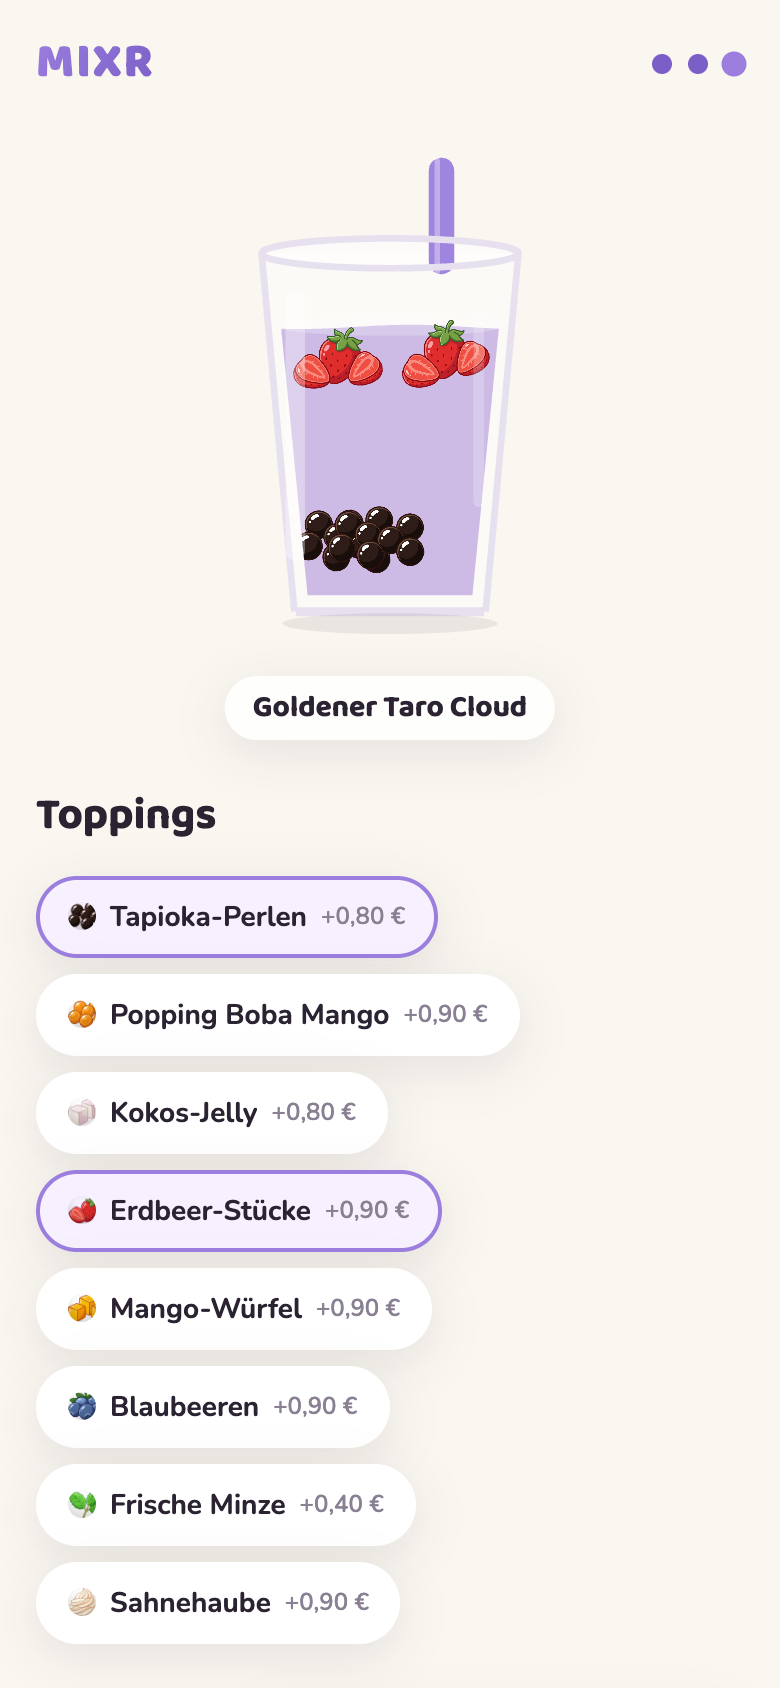
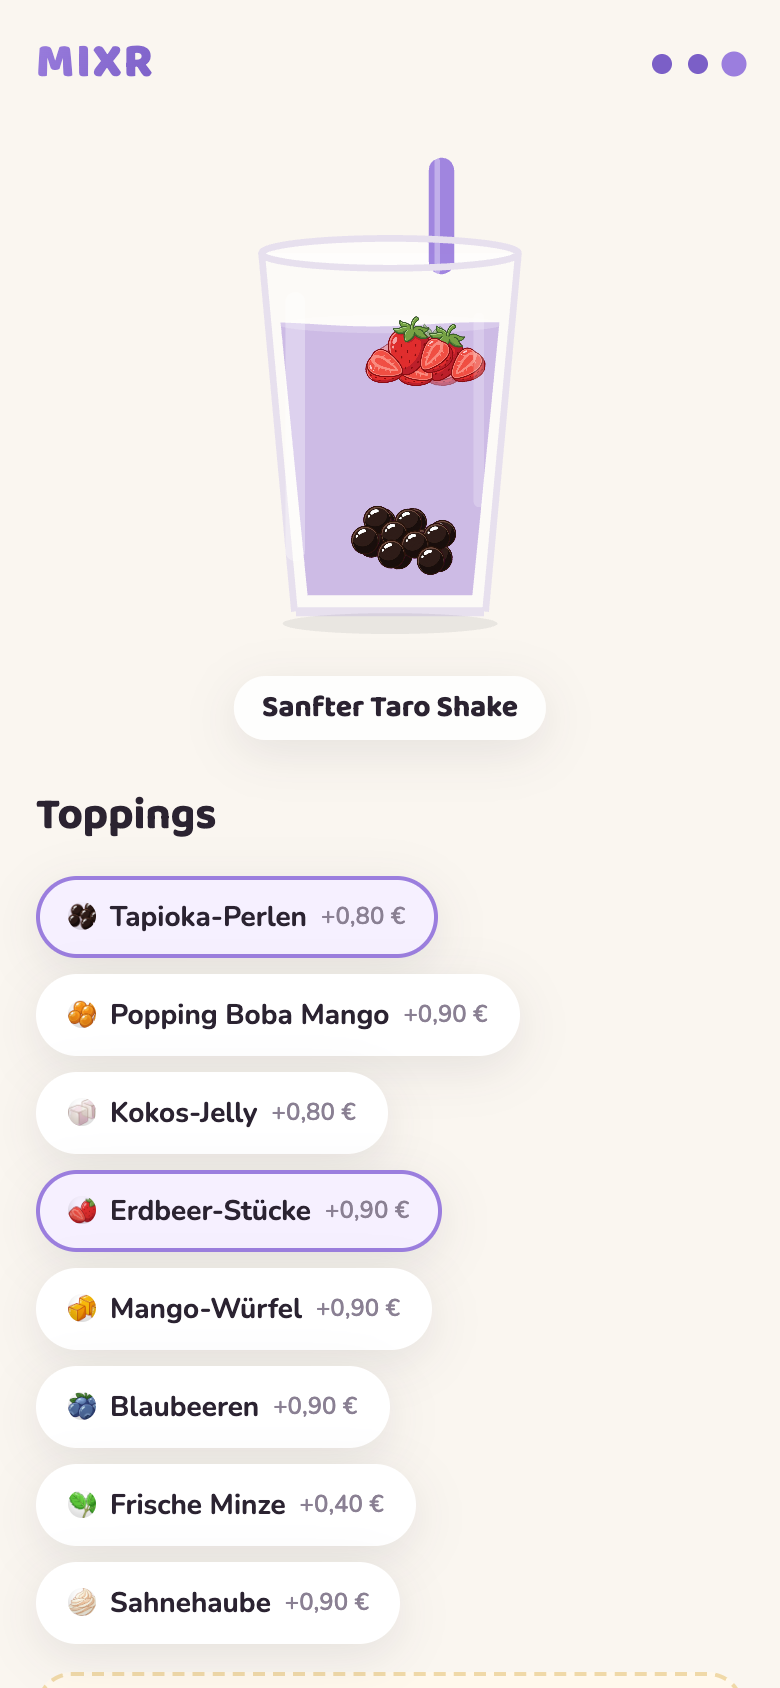
Phase 3: Features — visuelles Upselling (Probe-Drop), Game-Hook, robuster Bar-Sync
Upsell: max 1 Vorschlag, Zutat faellt halbtransparent probeweise in den Becher,
Ja -> echtes Topping. Bar rendert nur bei Datenaenderung (kein DOM-Churn ->
keine verlorenen Klicks). Tests: 3 Themes end-to-end, Upsell-Flow, Wartephase
(Fun Facts + Catch-Game -> Tages-Highscore), Share-Card, Zwei-Context-Sync.

Gate 3 PASS: Suite 14/14, 2x gruen.

diff --git a/tests/features.spec.js b/tests/features.spec.js
@@ -1,0 +1,103 @@
+// Phase-3 gate: all 3 themes, upselling, waiting phase (game + highscore +
+// fun facts), share card, true two-client device sync (separate contexts).
+import { test, expect } from '@playwright/test';
+
+test.beforeEach(async ({ request }) => { await request.post('/api/admin/reset'); });
+
+async function buildDrink(page, { theme, base, mix, topping }) {
+  await page.goto('/');
+  await page.getByTestId('start').click();
+  await page.locator(`#theme-tabs button[data-theme="${theme}"]`).click();
+  await page.locator(`#base-cards .opt-card[data-id="${base}"]`).click();
+  await page.getByTestId('next').click();
+  if (mix) await page.locator(`#mix-cards .chip[data-id="${mix}"]`).click();
+  await page.getByTestId('next').click();
+  if (topping) await page.locator(`#topping-chips .chip[data-id="${topping}"]`).click();
+  await page.getByTestId('next').click();
+}
+
+test('smoothie theme completes end-to-end with theme accent + chia sprinkle', async ({ page }) => {
+  await buildDrink(page, { theme: 'smoothie', base: 'mango-mix', mix: 'kokoswasser', topping: 'chia' });
+  await expect(page.locator('#summary-price')).toContainText('7,20'); // 5.90+0.70+0.60
+  const accent = await page.evaluate(() => getComputedStyle(document.documentElement).getPropertyValue('--accent').trim());
+  expect(accent).toBe('#FFB347');
+});
+
+test('coffee theme: cream + caramel drizzle land as cup content', async ({ page }) => {
+  await buildDrink(page, { theme: 'coffee', base: 'cold-brew', mix: 'karamell-sirup', topping: 'sahnehaube' });
+  const hasCream = await page.evaluate(() => !!window.__mixr.cup.creamSprite);
+  expect(hasCream).toBe(true);
+  await expect(page.getByTestId('allergene')).toContainText('Milch');
+});
+
+test('upselling: max one suggestion, trial item drops in, yes adds topping', async ({ page }) => {
+  await page.goto('/');
+  await page.getByTestId('start').click();
+  await page.locator('#theme-tabs button[data-theme="bubble-tea"]').click();
+  await page.locator('#base-cards .opt-card[data-id="schwarztee"]').click();
+  await page.getByTestId('next').click();
+  await page.getByTestId('next').click();
+  await page.locator('#topping-chips .chip[data-id="tapioka"]').click();
+  await expect(page.getByTestId('upsell')).toBeVisible({ timeout: 5000 });
+  // trial sprite is in the cup
+  const trial = await page.evaluate(() => (window.__mixr.cup.items.get('__upsell') || []).length);
+  expect(trial).toBeGreaterThan(0);
+  const suggested = await page.getByTestId('upsell').textContent();
+  await page.getByTestId('upsell-yes').click();
+  await page.waitForTimeout(900);
+  const st = await page.evaluate(() => ({ toppings: window.__mixr.state.toppings, trial: (window.__mixr.cup.items.get('__upsell') || []).length }));
+  expect(st.toppings.length).toBe(2);
+  expect(st.trial).toBe(0);
+  // no second suggestion
+  await page.locator('#topping-chips .chip[data-id="minze"]').click();
+  await page.waitForTimeout(600);
+  await expect(page.getByTestId('upsell')).toHaveCount(0);
+});
+
+test('two devices: bar context drives guest status, share card renders', async ({ browser }) => {
+  const guestCtx = await browser.newContext({ viewport: { width: 390, height: 844 }, hasTouch: true });
+  const barCtx = await browser.newContext({ viewport: { width: 1024, height: 768 } });
+  const page = await guestCtx.newPage();
+  await buildDrink(page, { theme: 'bubble-tea', base: 'taro', mix: 'vollmilch', topping: 'tapioka' });
+  await page.getByTestId('order').click();
+  await expect(page.locator('[data-screen-id="waiting"]')).toHaveClass(/active/, { timeout: 20000 });
+
+  const orderId = await page.evaluate(() => window.__mixr.state.order.id);
+  const bar = await barCtx.newPage();
+  await bar.goto('/bar');
+  const card = bar.locator(`.order-card[data-order="${orderId}"]`);
+  await expect(card).toBeVisible({ timeout: 8000 });
+
+  // status story follows each bar action on the OTHER client
+  await card.locator('button[data-next="in_arbeit"]').click();
+  await expect(page.locator('.story-step[data-status="in_arbeit"]')).toHaveClass(/current/, { timeout: 8000 });
+  await card.locator('button[data-next="fast_fertig"]').click();
+  await expect(page.locator('.story-step[data-status="fast_fertig"]')).toHaveClass(/current/, { timeout: 8000 });
+  await card.locator('button[data-next="fertig"]').click();
+  await expect(page.locator('[data-screen-id="done"]')).toHaveClass(/active/, { timeout: 10000 });
+
+  // share card image rendered
+  await expect(page.locator('#share-card-slot img')).toBeVisible({ timeout: 10000 });
+  const src = await page.locator('#share-card-slot img').getAttribute('src');
+  expect(src).toMatch(/^data:image\/png/);
+  await guestCtx.close(); await barCtx.close();
+});
+
+test('waiting phase: fun facts show, game runs and submits daily highscore', async ({ page, request }) => {
+  await buildDrink(page, { theme: 'bubble-tea', base: 'matcha', mix: null, topping: 'tapioka' });
+  await page.getByTestId('order').click();
+  await expect(page.locator('[data-screen-id="waiting"]')).toHaveClass(/active/, { timeout: 20000 });
+  // fun fact visible
+  await expect(page.locator('#funfact-card')).toBeVisible();
+  await expect(page.locator('#funfact-card')).toContainText(/Tapioka|Matcha/);
+  // start game, score deterministically, force end
+  await page.getByTestId('play-game').click();
+  await expect(page.locator('#game-canvas')).toBeVisible();
+  await page.waitForTimeout(800);
+  const before = (await (await request.get('/api/highscore')).json()).entries.length;
+  await page.evaluate(() => { const g = window.__mixrGame; g.score = 77; g.time = 0.05; ; 1 });
+  await page.waitForTimeout(2600);
+  const hs = await (await request.get('/api/highscore')).json();
+  expect(hs.entries.length).toBeGreaterThan(before);
+  expect(hs.entries.some(e => e.score === 77)).toBeTruthy();
+});

diff --git a/src/main.js b/src/main.js
@@ -296,6 +296,43 @@ async function toggleTopping(id) {
   state.toppings.push(id);
   renderStep3();
   await animateIngredient(ing);
+  maybeUpsell();
+}
+
+// ---------- visual upselling: max 1 suggestion, drops into the cup on trial ----------
+function maybeUpsell() {
+  if (state.upsellDone || state.screen !== 'step3') return;
+  const opts = optionsFor(state.menu, state.theme, 'topping', selectedIds())
+    .filter(o => o.ok && !state.toppings.includes(o.ing.id) && o.ing.animation === 'drop' && textures[o.ing.id]);
+  if (!opts.length) return;
+  state.upsellDone = true;
+  const pick = opts.find(o => o.ing.tags?.includes('frucht')) || opts[0];
+  const ing = pick.ing;
+  // trial drop: one translucent sample falls in
+  const tun = DROP_TUNING[ing.id] || {};
+  cup.drop({ id: '__upsell', texture: textures[ing.id], count: 1, radius: tun.radius ?? 22, float: ing.tags?.includes('frucht') });
+  setTimeout(() => {
+    const arr = cup.items.get('__upsell') || [];
+    for (const sp of arr) sp.alpha = 0.55;
+  }, 700);
+  const slot = $('#upsell-slot');
+  slot.innerHTML = `
+    <div class="upsell" data-testid="upsell">
+      <span>✨ Dazu passt: <b>${ing.name}</b> (+${formatPrice(ing.preis)})</span>
+      <button class="yes" data-testid="upsell-yes">Ja!</button>
+      <button class="no">Nein</button>
+    </div>`;
+  slot.querySelector('.yes').onclick = () => {
+    haptic();
+    cup.removeItem('__upsell');
+    slot.innerHTML = '';
+    toggleTopping(ing.id);
+  };
+  slot.querySelector('.no').onclick = () => {
+    haptic();
+    cup.removeItem('__upsell');
+    slot.innerHTML = '';
+  };
 }
 
 async function animateIngredient(ing) {
@@ -454,7 +491,7 @@ async function startGame() {
   const { CatchGame } = await import('./game/catch.js');
   $('#game-wrap').hidden = false;
   $('#btn-game').hidden = true;
-  const game = new CatchGame($('#game-canvas'), $('#game-hud'), {
+  const game = window.__mixrGame = new CatchGame($('#game-canvas'), $('#game-hud'), {
     theme: themeDef(),
     toppings: state.toppings.map(id => ingredient(id)),
     onEnd: async (score) => {
@@ -501,7 +538,11 @@ async function boot() {
       if (state.mixes.length) cup.swirl();
       show('step3'); renderStep3();
     }
-    else if (state.screen === 'step3') { show('summary'); renderSummary(); }
+    else if (state.screen === 'step3') {
+      cup.removeItem('__upsell');
+      $('#upsell-slot').innerHTML = '';
+      show('summary'); renderSummary();
+    }
   };
   $('#btn-back').onclick = () => {
     haptic();

diff --git a/src/bar.js b/src/bar.js
@@ -8,9 +8,13 @@ const NEXT = {
   fertig: { label: '🛍 Abgeholt', status: 'abgeholt', cls: '' }
 };
 
-async function refresh() {
+let lastPayload = '';
+async function refresh(force = false) {
   let orders = [];
   try { orders = await api.orders(); } catch { return; }
+  const payload = JSON.stringify(orders.map(o => [o.id, o.status, o.ts]));
+  if (!force && payload === lastPayload) return; // no DOM churn -> no lost clicks
+  lastPayload = payload;
   const main = document.querySelector('#orders');
   document.querySelector('#count').textContent = orders.filter(o => o.status !== 'fertig').length;
   if (!orders.length) {
@@ -33,7 +37,7 @@ async function refresh() {
       if (!b.dataset.next) return;
       b.disabled = true;
       try { await api.setStatus(b.dataset.id, b.dataset.next); } catch {}
-      refresh();
+      refresh(true);
     };
   });
 }

diff --git a/tests/flow.spec.js b/tests/flow.spec.js
@@ -43,16 +43,17 @@ test('full flow: configure drink, order reaches /bar, bar drives status to done'
   await expect(page.getByTestId('status-story').locator('.story-step[data-status="eingegangen"]')).toHaveClass(/current/);
 
   // bar tab (second client, same server) sees the order
+  const orderId = await page.evaluate(() => window.__mixr.state.order.id);
   const bar = await context.newPage();
   await bar.goto('/bar');
-  const card = bar.locator('.order-card').first();
+  const card = bar.locator(`.order-card[data-order="${orderId}"]`);
   await expect(card).toBeVisible({ timeout: 8000 });
   await expect(card).toContainText('Taro');
 
   // drive status: eingegangen -> in_arbeit -> fast_fertig -> fertig
   for (const next of ['in_arbeit', 'fast_fertig', 'fertig']) {
-    await bar.locator(`button[data-next="${next}"]`).first().click();
-    await bar.waitForTimeout(300);
+    await card.locator(`button[data-next="${next}"]`).click();
+    await expect(card).toHaveAttribute('data-status', next, { timeout: 8000 });
   }
   // guest screen celebrates
   await expect(page.locator('[data-screen-id="done"]')).toHaveClass(/active/, { timeout: 10000 });